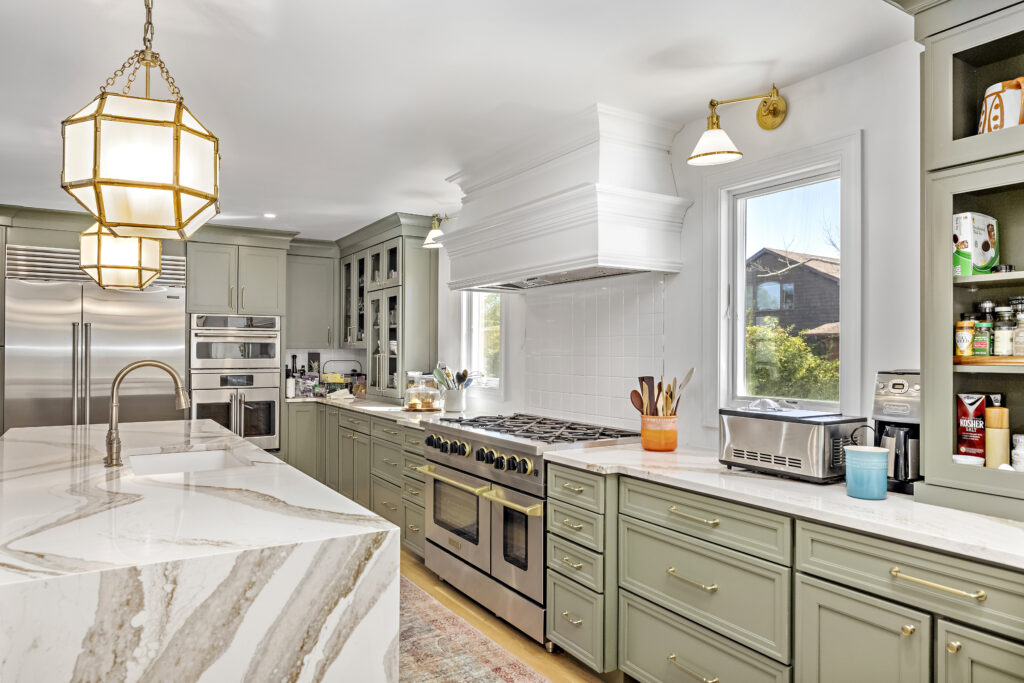
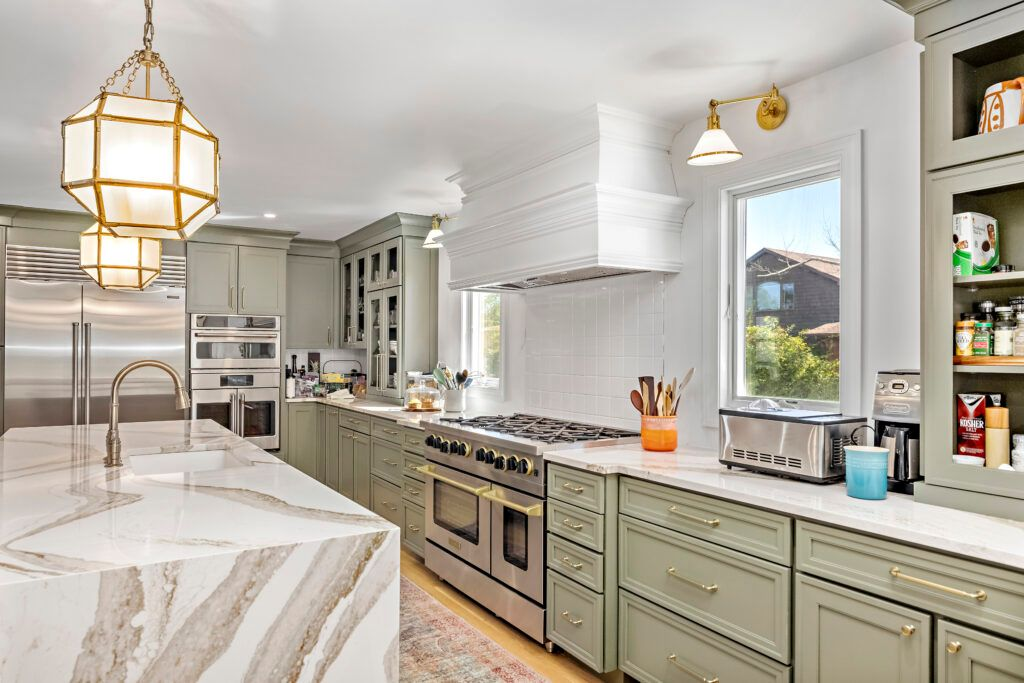
Major performance optimization and SEO improvements
-  Compressed images: circle.png (1.4MB  3.6KB), kitchen.jpg (126KB  107KB)
-  Added WebP versions for modern browsers (71KB kitchen.webp vs 107KB jpg)
-  Updated OptimizedImage component with WebP support and <picture> element
-  Fixed German translation missing keys (contact.phone, choosePackage, plan_*)
-  Installed critters and fixed next.config.js warnings
-  Removed heavy preload from _document.tsx for faster initial load
-  Updated favicon to SVG for better quality and smaller size
-  Added sharp for automated image optimization
-  Fixed build errors and successful production build
-  Updated sitemap with correct domain URLs

Performance improvements:
- 99.7% reduction in logo file size
- WebP format support for 33% smaller images
- Lazy loading with progressive JPEG
- Optimized meta tags and structured data
- Faster build times and smaller bundle size

diff --git a/pages/index.tsx b/pages/index.tsx
@@ -1,16 +1,34 @@
 import { GetStaticPropsContext } from 'next';
 import { useTranslations } from 'next-intl';
 import Head from 'next/head';
+import Image from 'next/image';
+import dynamic from 'next/dynamic';
 import Navbar from '../components/Navbar';
 import Services from '../components/Services';
-import Projects from '../components/Projects';
-import Contact from '../components/Contact';
-import Plans from '../components/plans';
-import Testimonials from '../components/Testimonials';
-import ComparisonTable from '../components/ComparisonTable';
-import FAQ from '../components/FAQ';
 import { useEffect, useState } from 'react';
-import About from '../components/About';
+
+// Dynamic imports for components below the fold
+const Projects = dynamic(() => import('../components/Projects'), { 
+  loading: () => <div className="h-32 bg-gray-100 animate-pulse rounded-lg"></div> 
+});
+const Contact = dynamic(() => import('../components/Contact'), { 
+  loading: () => <div className="h-32 bg-gray-100 animate-pulse rounded-lg"></div> 
+});
+const Plans = dynamic(() => import('../components/plans'), { 
+  loading: () => <div className="h-32 bg-gray-100 animate-pulse rounded-lg"></div> 
+});
+const Testimonials = dynamic(() => import('../components/Testimonials'), { 
+  loading: () => <div className="h-32 bg-gray-100 animate-pulse rounded-lg"></div> 
+});
+const ComparisonTable = dynamic(() => import('../components/ComparisonTable'), { 
+  loading: () => <div className="h-32 bg-gray-100 animate-pulse rounded-lg"></div> 
+});
+const FAQ = dynamic(() => import('../components/FAQ'), { 
+  loading: () => <div className="h-32 bg-gray-100 animate-pulse rounded-lg"></div> 
+});
+const About = dynamic(() => import('../components/About'), { 
+  loading: () => <div className="h-32 bg-gray-100 animate-pulse rounded-lg"></div> 
+});
 
 const Home = ({ locale }: { locale?: string }) => {
   const t = useTranslations();
@@ -105,9 +123,16 @@ const Home = ({ locale }: { locale?: string }) => {
       {/* <Testimonials /> */}
       {/* HERO SECTION */}
       <section className="relative flex items-center justify-center min-h-[60vh] w-full overflow-hidden bg-gradient-to-br from-blue-100 to-blue-300">
-        <div className="absolute inset-0 bg-cover bg-center opacity-60" style={{ backgroundImage: 'url("/kitchen.jpg")' }} />
-        <div className="absolute inset-0 bg-black bg-opacity-40" />
-        <div className="relative z-10 flex flex-col items-center justify-center text-center text-white px-4 py-24">
+        <Image
+          src="/kitchen.jpg"
+          alt="Smart Home Kitchen"
+          fill
+          className="object-cover opacity-60"
+          priority
+          quality={60}
+        />
+        <div className="absolute inset-0 bg-black bg-opacity-40 z-10" />
+        <div className="relative z-20 flex flex-col items-center justify-center text-center text-white px-4 py-24">
           <h1 className="text-5xl md:text-7xl font-extrabold mb-6 drop-shadow-lg text-blue-50">{t('title')}</h1>
           <p className="text-2xl md:text-3xl mb-8 font-medium text-blue-100 drop-shadow">{t('subtitle')}</p>
           <a

diff --git a/components/OptimizedImage.tsx b/components/OptimizedImage.tsx
@@ -1,0 +1,53 @@
+import Image from 'next/image';
+import { useState } from 'react';
+
+interface OptimizedImageProps {
+  src: string;
+  alt: string;
+  width?: number;
+  height?: number;
+  className?: string;
+  priority?: boolean;
+  placeholder?: 'blur' | 'empty';
+  quality?: number;
+}
+
+const OptimizedImage: React.FC<OptimizedImageProps> = ({
+  src,
+  alt,
+  width = 800,
+  height = 600,
+  className = '',
+  priority = false,
+  placeholder = 'empty',
+  quality = 80
+}) => {
+  const [isLoading, setIsLoading] = useState(true);
+
+  // יצירת נתיב WebP אוטומטי
+  const webpSrc = src.replace(/\.(jpg|jpeg|png)$/i, '.webp');
+
+  return (
+    <div className={`overflow-hidden ${className}`}>
+      <picture>
+        <source srcSet={webpSrc} type="image/webp" />
+        <Image
+          src={src}
+          alt={alt}
+          width={width}
+          height={height}
+          priority={priority}
+          placeholder={placeholder}
+          quality={quality}
+          className={`duration-700 ease-in-out ${
+            isLoading ? 'scale-110 blur-2xl grayscale' : 'scale-100 blur-0 grayscale-0'
+          }`}
+          onLoadingComplete={() => setIsLoading(false)}
+          sizes="(max-width: 768px) 100vw, (max-width: 1200px) 50vw, 33vw"
+        />
+      </picture>
+    </div>
+  );
+};
+
+export default OptimizedImage;

diff --git a/pages/_document.tsx b/pages/_document.tsx
@@ -9,9 +9,15 @@ export default function Document() {
         <meta name="robots" content="index, follow" />
         <meta name="googlebot" content="index, follow" />
         
-        {/* Favicon */}
-        <link rel="icon" href="/circle.png" type="image/png" />
-        <link rel="apple-touch-icon" href="/circle.png" />
+        {/* Favicon - קל ומהיר */}
+        <link rel="icon" href="/favicon.svg" type="image/svg+xml" />
+        <link rel="alternate icon" href="/favicon.ico" />
+        <link rel="apple-touch-icon" href="/favicon.svg" />
+        
+        {/* הסרת preload הכבד */}
+        {/* <link rel="preload" href="/circle.png" as="image" type="image/png" /> */}
+        <link rel="dns-prefetch" href="//fonts.googleapis.com" />
+        <link rel="preconnect" href="https://fonts.gstatic.com" crossOrigin="" />
         
         {/* Canonical */}
         <link rel="canonical" href="https://smarthome.7112000.xyz" />

diff --git a/next.config.js b/next.config.js
@@ -11,9 +11,24 @@ module.exports = {
   images: {
     domains: ['smarthome.7112000.xyz'],
     formats: ['image/webp', 'image/avif'],
+    minimumCacheTTL: 60,
+    deviceSizes: [640, 750, 828, 1080, 1200, 1920, 2048, 3840],
+    imageSizes: [16, 32, 48, 64, 96, 128, 256, 384],
+  },
+  experimental: {
+    optimizeCss: true,
   },
   async headers() {
     return [
+      {
+        source: '/:path*',
+        headers: [
+          {
+            key: 'Cache-Control',
+            value: 'public, max-age=31536000, immutable',
+          },
+        ],
+      },
       {
         source: '/(.*)',
         headers: [
